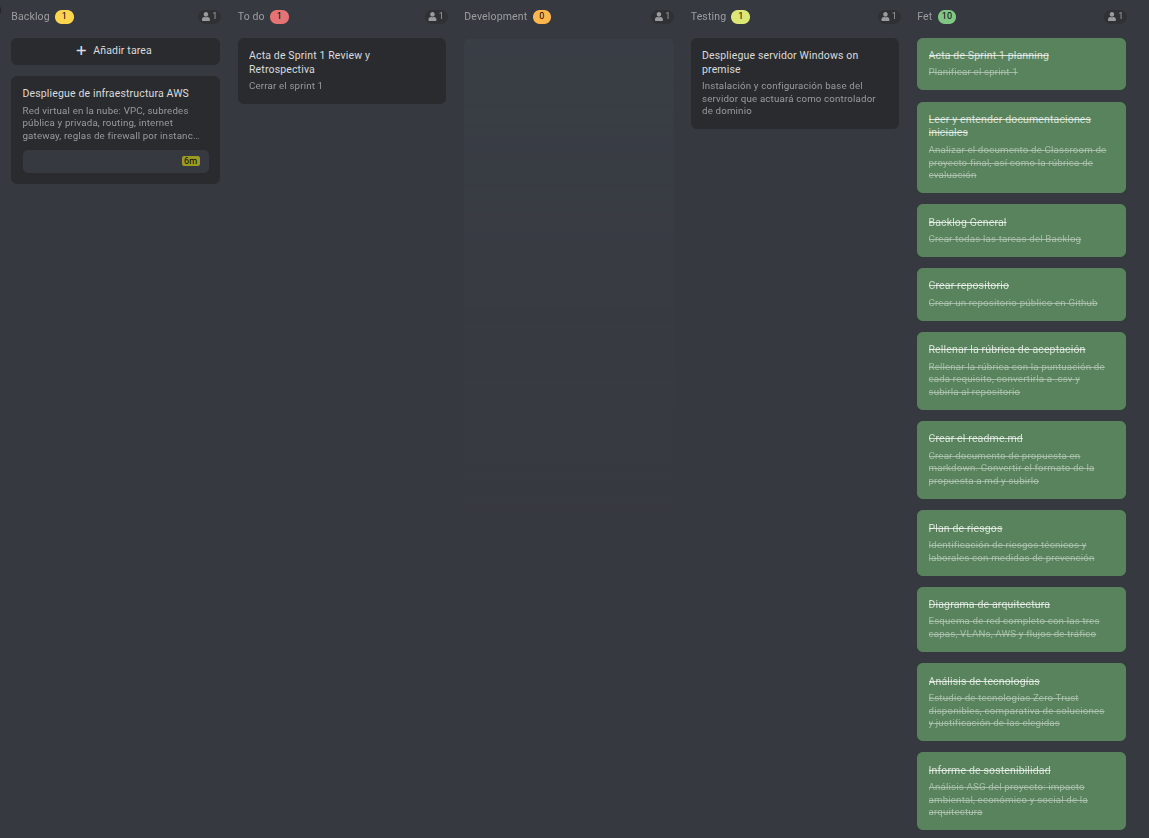
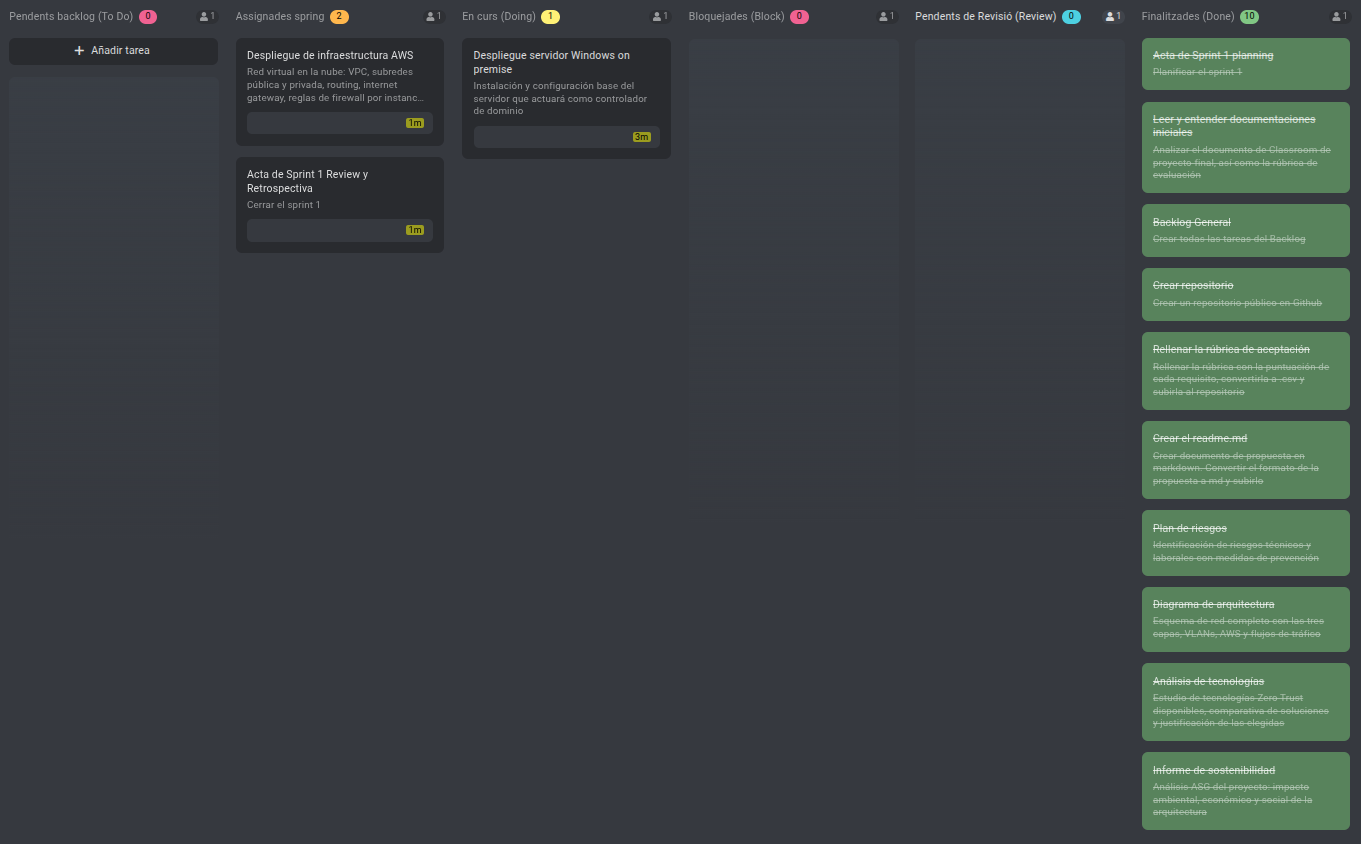
Quick image fix

diff --git a/sprints/sprint-02/sprint-02-planning-es.md b/sprints/sprint-02/sprint-02-planning-es.md
@@ -1,0 +1,94 @@
+# Sprint 02 Planning — Implementación Técnica Completa y Validación de Seguridad
+
+**Periodo:** 27/04/2026 - 12/05/2026  
+**Lugar:** Aula 209 - Institut Tecnològic de Barcelona  
+**Fecha:** 27/04/2026  
+**Hora:** 17:00  
+**Asistentes:** Asier Barranco  
+
+---
+
+## Objetivo del Sprint
+
+**Nota**: A partir de este Sprint, los archivos internos como los Sprint Planning o Sprint Review constarán únicamente en español. No afecta a manuales y documentación técnica, que seguirán con las 2 variantes de idioma.
+
+Completar la implementación técnica íntegra del sistema Zero Trust — infraestructura on-premise y AWS, federación de identidad, perímetro, servicios corporativos y automatización — y validar la arquitectura mediante una fase Purple Team documentada. El sprint cierra el proyecto en estado listo para la defensa del 20/05/2026.
+
+Este sprint absorbe además las dos tareas técnicas no finalizadas del Sprint 1, e incorpora dos nuevos documentos de planificación identificados como necesarios tras la revisión con el tutor: los criterios de rendimiento y aceptación del sistema, y el plan de seguridad Red Team / Blue Team.
+
+---
+
+## Tareas del Sprint
+
+### Arrastradas del Sprint 1
+- Despliegue de infraestructura AWS (VPC, subredes, routing, security groups, instancias EC2)
+- Despliegue servidor Windows Server on-premise *(en curso)*
+
+### Documentación de planificación (nuevas)
+- Criterios de rendimiento y aceptación del sistema
+- Plan de seguridad — Red Team y Blue Team
+
+### Fase 2 — Infraestructura on-premise
+- Despliegue servidor Linux perimetral
+- Configuración de red interna (segmentación, DNS, DHCP)
+
+### Fase 3 — Active Directory
+- Instalación y configuración de Active Directory
+- Políticas de acceso (GPO)
+- Gestión y provisioning de usuarios
+
+### Fase 4 — Identidad federada
+- Despliegue del proveedor de identidad (Keycloak)
+- Federación con Active Directory (LDAP)
+- Configuración SSO
+- Configuración MFA
+- Validación del flujo de autenticación
+
+### Fase 5 — Perímetro y acceso
+- Configuración del proxy inverso (Nginx)
+- Gestión de certificados TLS (Let's Encrypt + Certbot)
+- Protección perimetral activa (Fail2ban + UFW + Security Groups)
+
+### Fase 6 — Base de datos
+- Despliegue y hardening de la base de datos (MariaDB)
+
+### Fase 7 — Servicios corporativos
+- Servicio de gestión documental (Nextcloud + integración SSO)
+- Servicio de comunicaciones (Mattermost + integración SSO)
+
+### Fase 8 — Automatización y monitorización
+- Script de monitorización de logs
+
+### Fase 9 — Validación del sistema
+- Validación de aislamiento de red
+- Validación de acceso y permisos
+
+### Fase 10 — Purple Team
+- Ataque 1 — Fuerza bruta
+- Ataque 2 — Robo de credenciales
+- Ataque 3 — Secuestro de sesión
+- Documentación Blue Team y respuesta al incidente
+
+### Fase 11 — Cierre
+- Plan de pruebas final
+- Manual de usuario
+- Sprint 02 Review y Retrospectiva
+
+---
+
+## Estado del tablero en el Planning
+
+Las dos tareas arrastradas del Sprint 1 se incorporan directamente a "To Do". El resto de tareas proceden del backlog general y se asignan en su totalidad a este sprint, al ser el último sprint técnico del proyecto.
+
+![Sprint 02 Planning Board](../../media/sprint-02-planning-board-01.png)
+
+---
+
+## Definición de Hecho
+
+Una tarea se considera completada cuando cumple todas las condiciones siguientes:
+
+- La tarea está completamente implementada o redactada según su descripción.
+- El resultado está commiteado en el repositorio de GitHub en la carpeta correspondiente.
+- La tarea está marcada como finalizada en el tablero de ProofHub.
+- Toda la documentación técnica entregable sigue el estándar del proyecto: formato Markdown, redactada en inglés técnico. Las actas de sprint se redactan únicamente en español.
